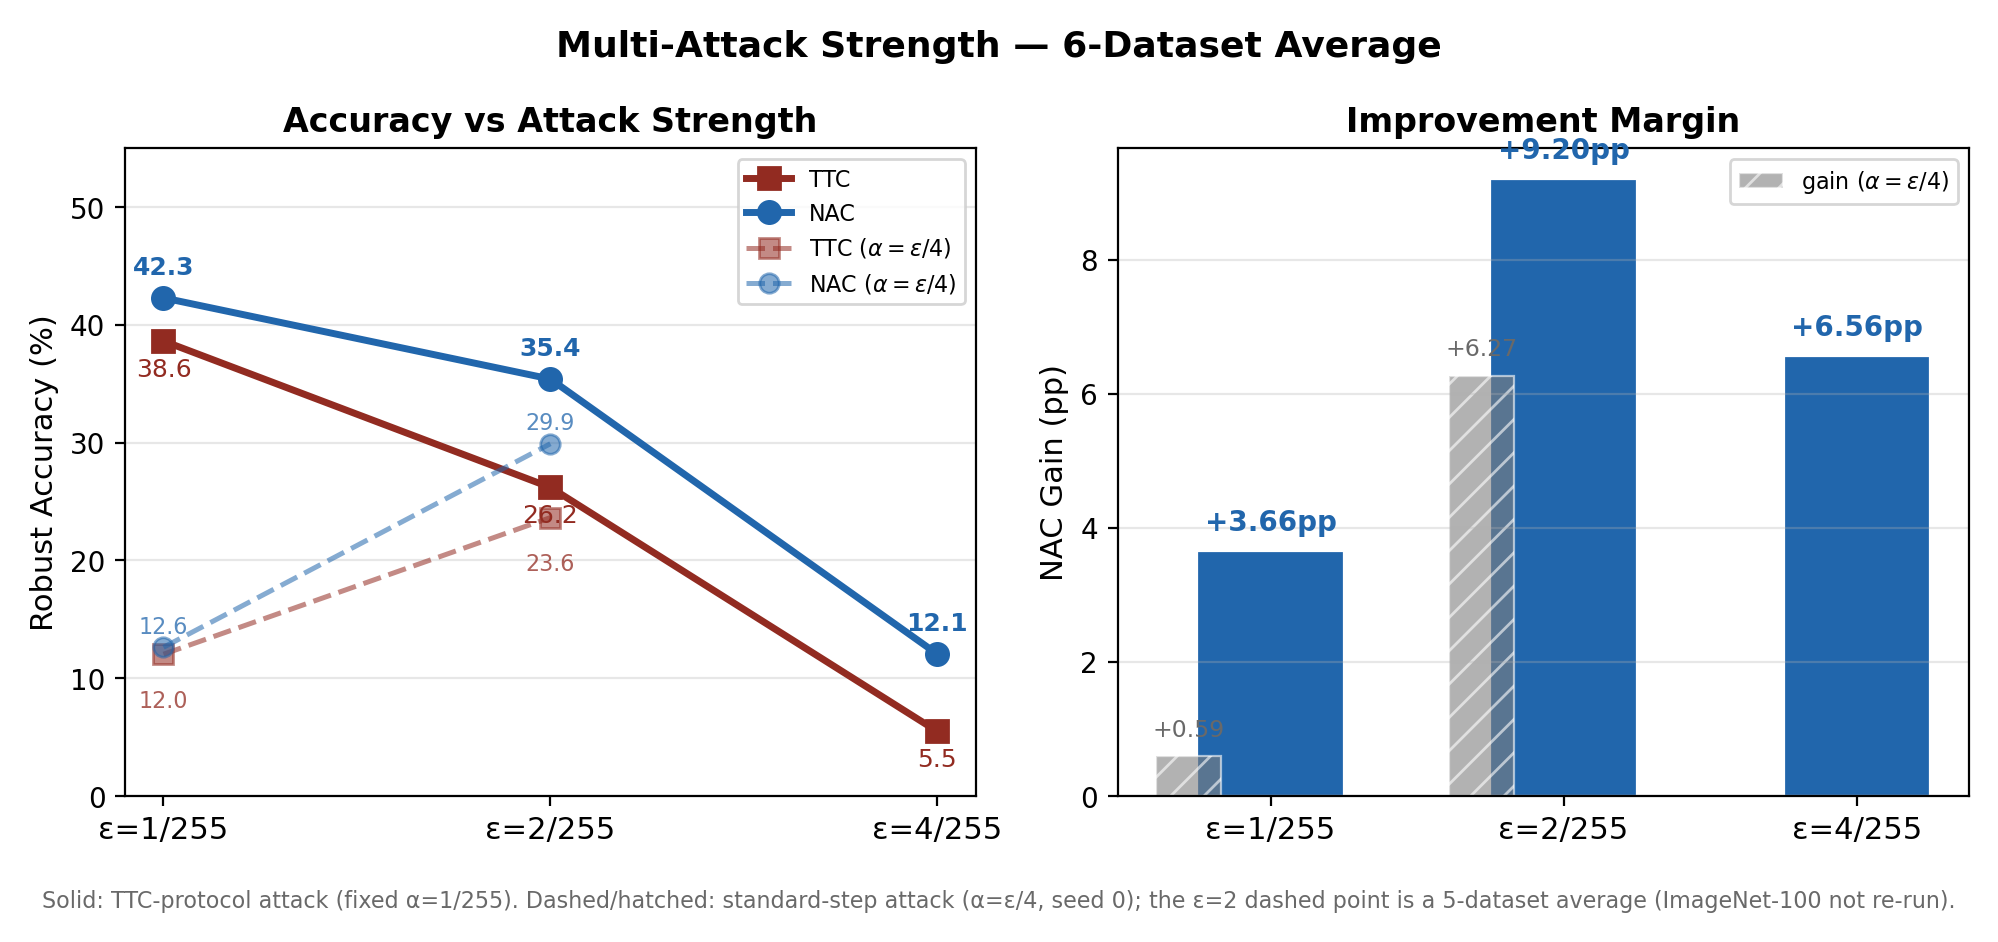
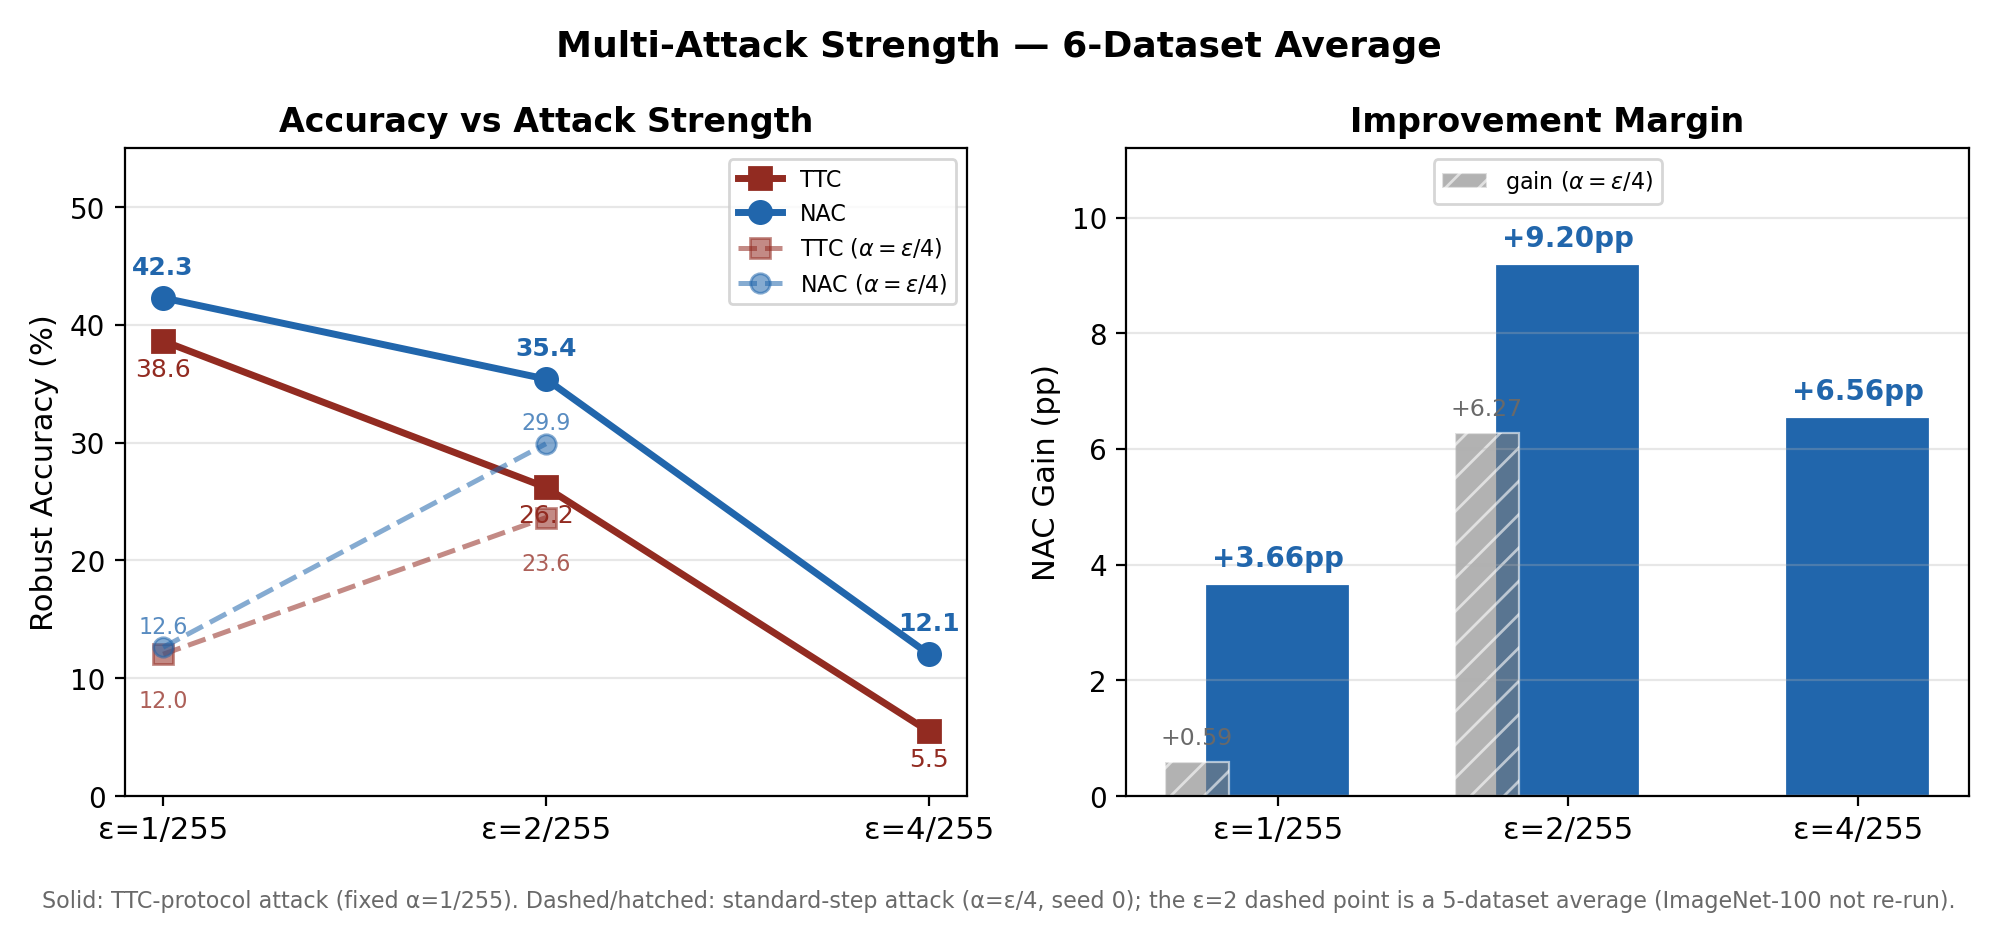
fig6 layout fix: gain-panel ylim headroom for +9.20pp label, legend to upper-center

diff --git a/plot_figures.py b/plot_figures.py
@@ -520,7 +520,8 @@ def plot_eps_trend():
     ax2.set_xticklabels([f'ε={e}' for e in epsilons], fontsize=11)
     ax2.set_ylabel('NAC Gain (pp)', fontsize=11)
     ax2.set_title('Improvement Margin', fontsize=12, fontweight='bold')
-    ax2.legend(fontsize=8, loc='upper right')
+    ax2.legend(fontsize=8, loc='upper center')
+    ax2.set_ylim(0, 11.2)
     ax2.grid(axis='y', alpha=0.3)
 
     fig.suptitle('Multi-Attack Strength — 6-Dataset Average', fontsize=13, fontweight='bold')
